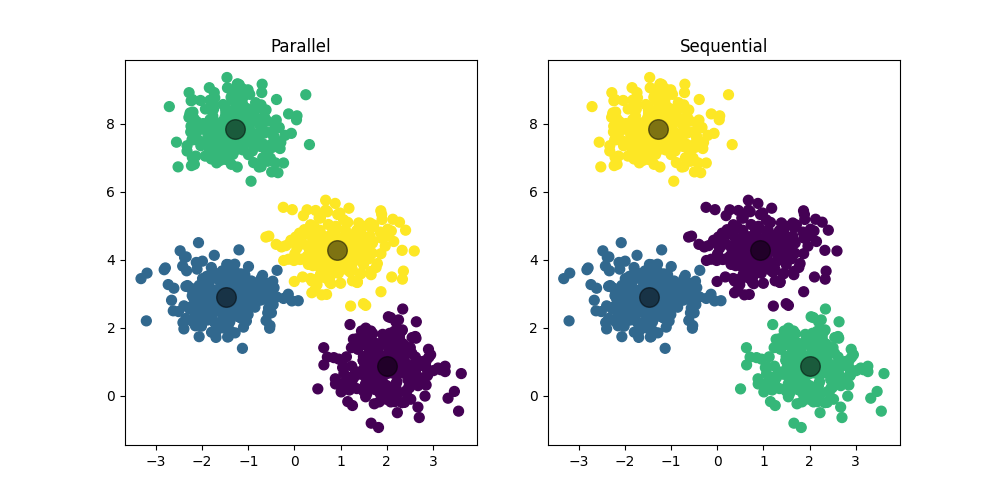
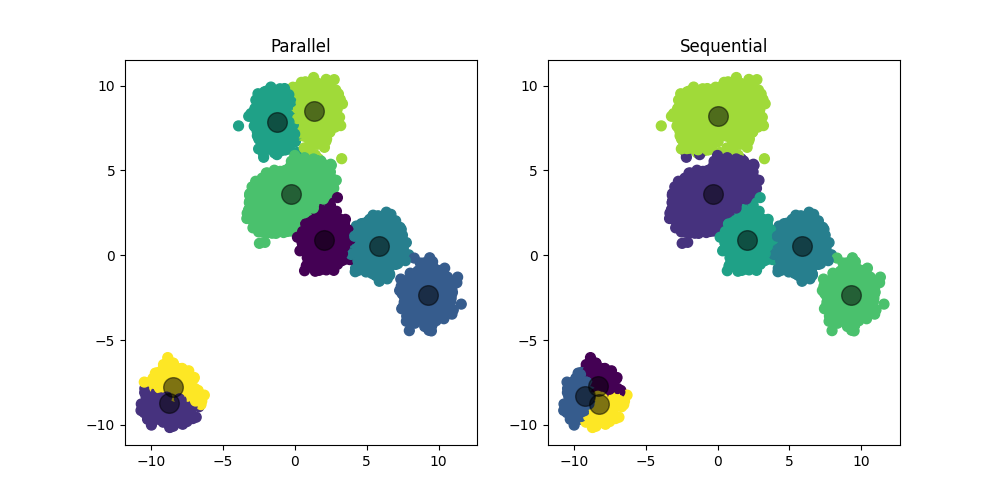
Update k-means parameters

diff --git a/main.py b/main.py
@@ -34,9 +34,9 @@ def kmeans_sequential(points, n_clusters, max_iter=100):
     return initial_centroids, closest
 
 # Generate sample data
-n_samples = 1000
-n_clusters = 4
-n_processes = 2
+n_samples = 20000
+n_clusters = 8
+n_processes = 4
 X, _ = make_blobs(n_samples=n_samples, centers=n_clusters, random_state=0, cluster_std=0.60)
 
 # Perform k-means clustering
